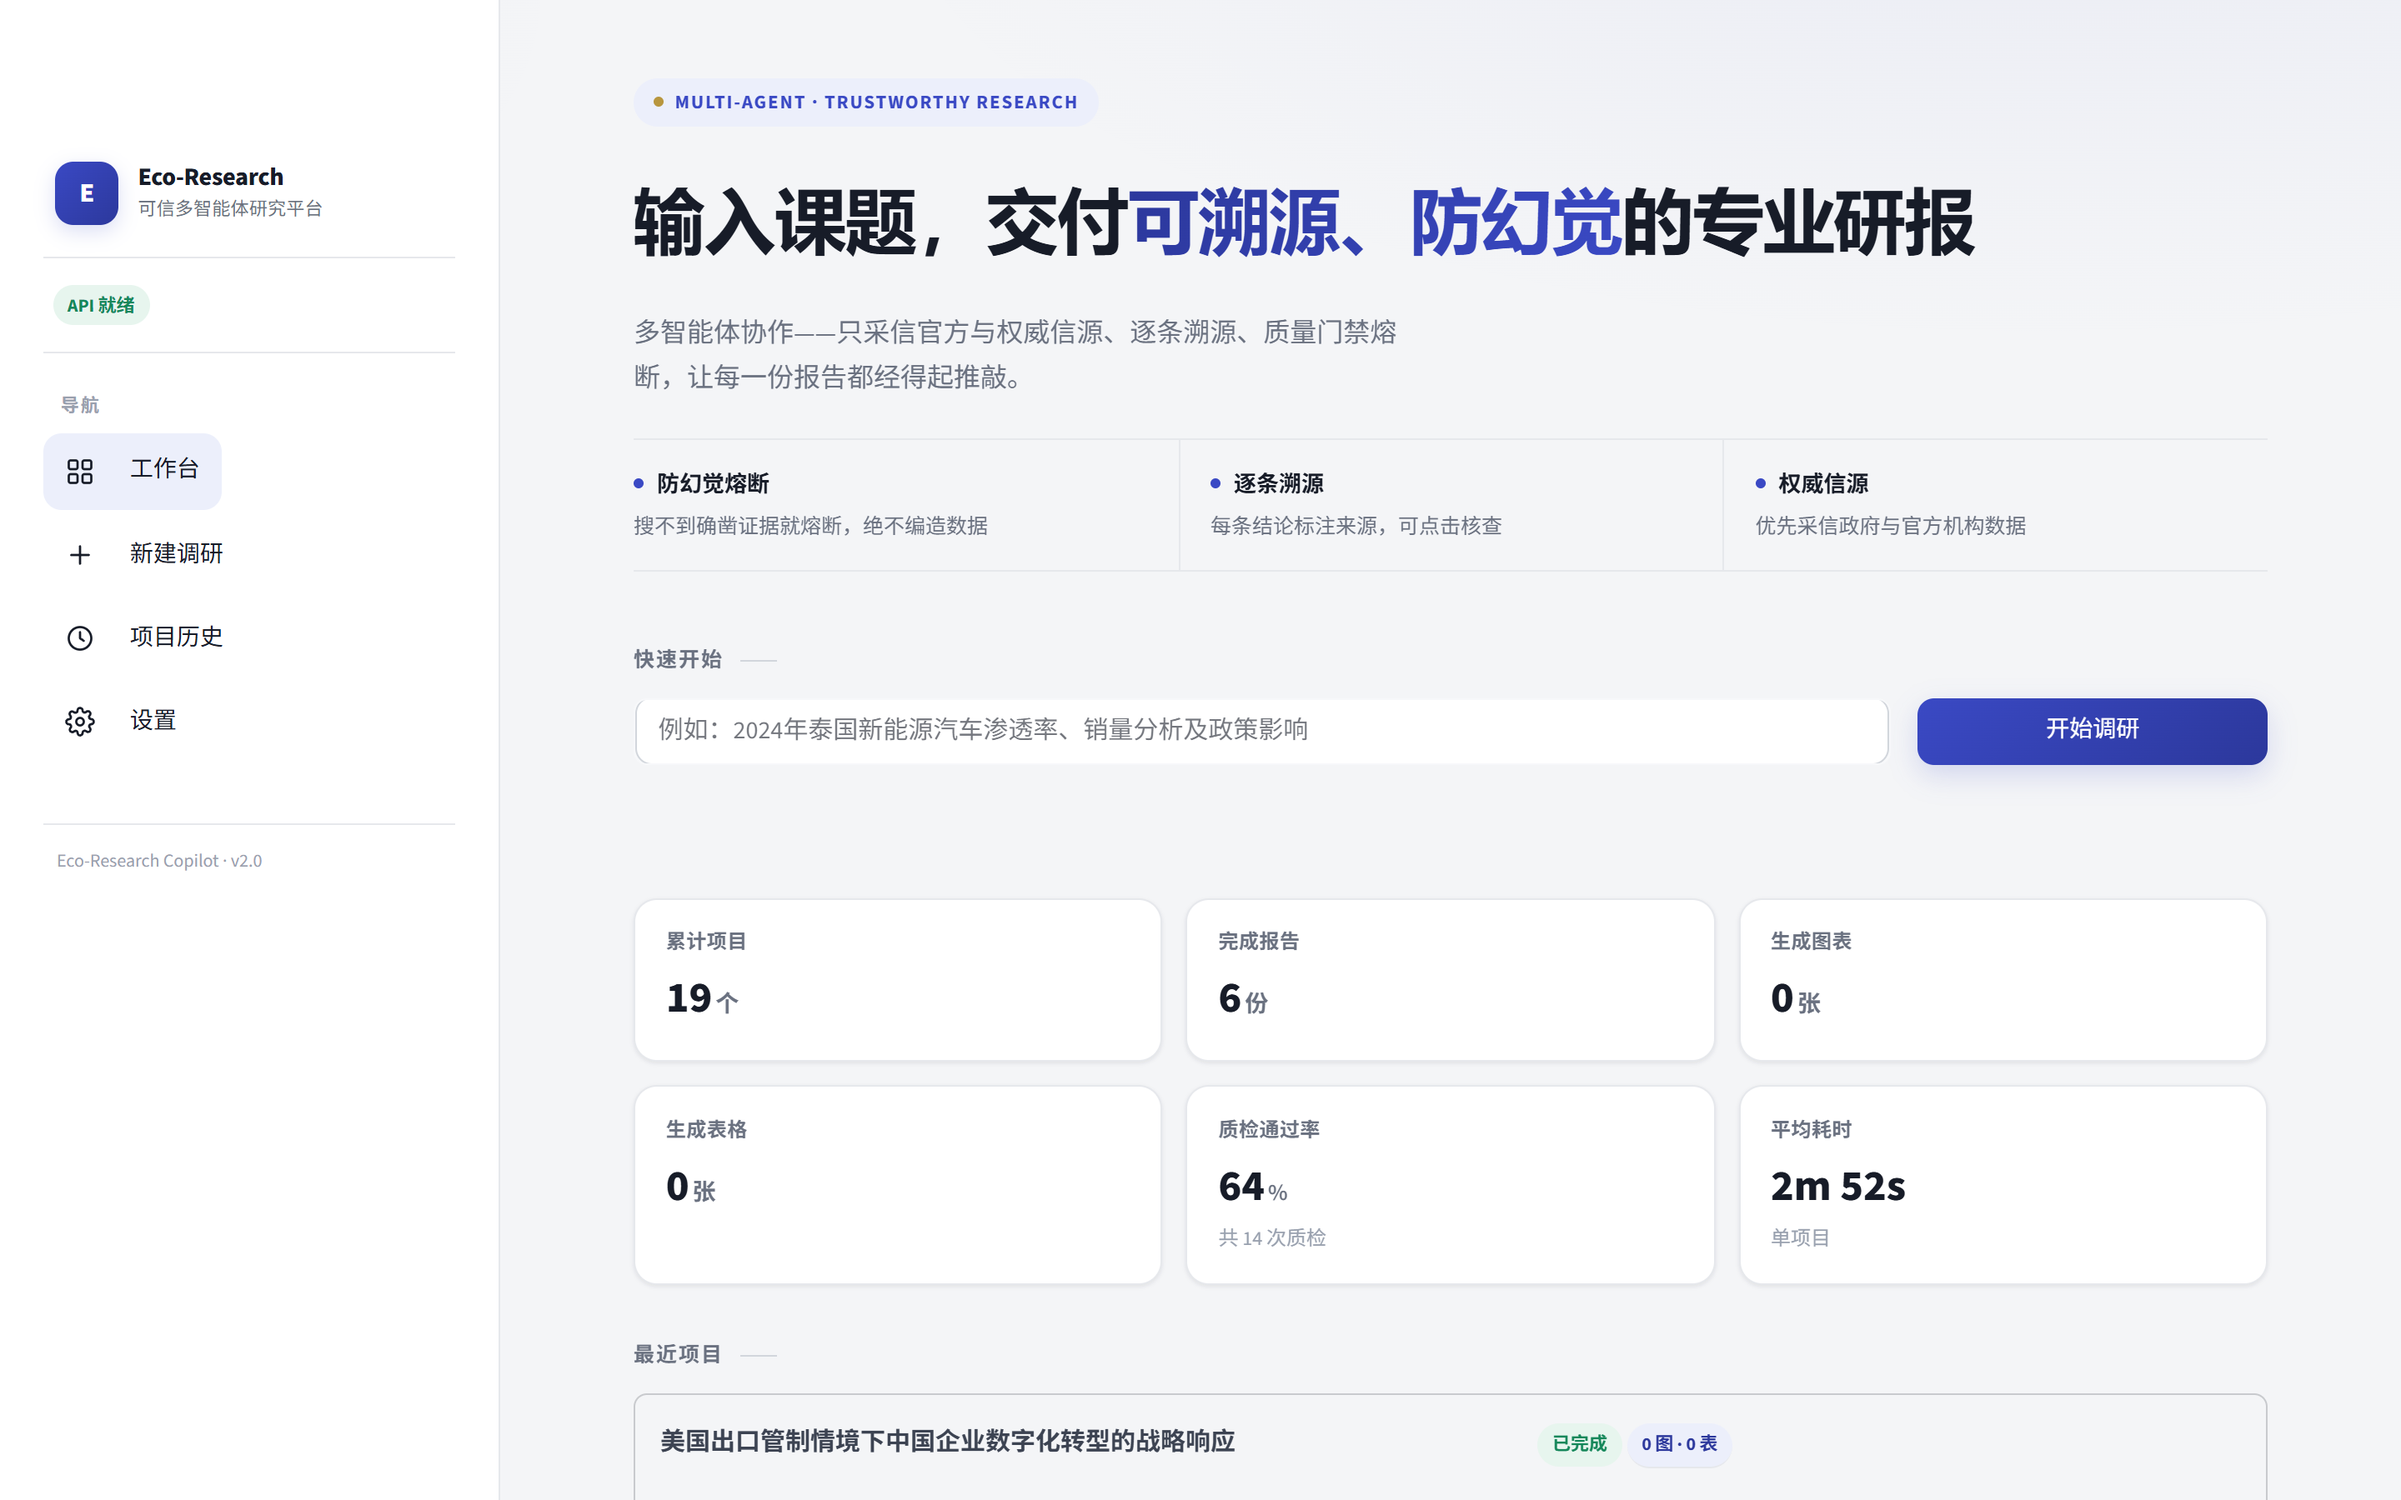
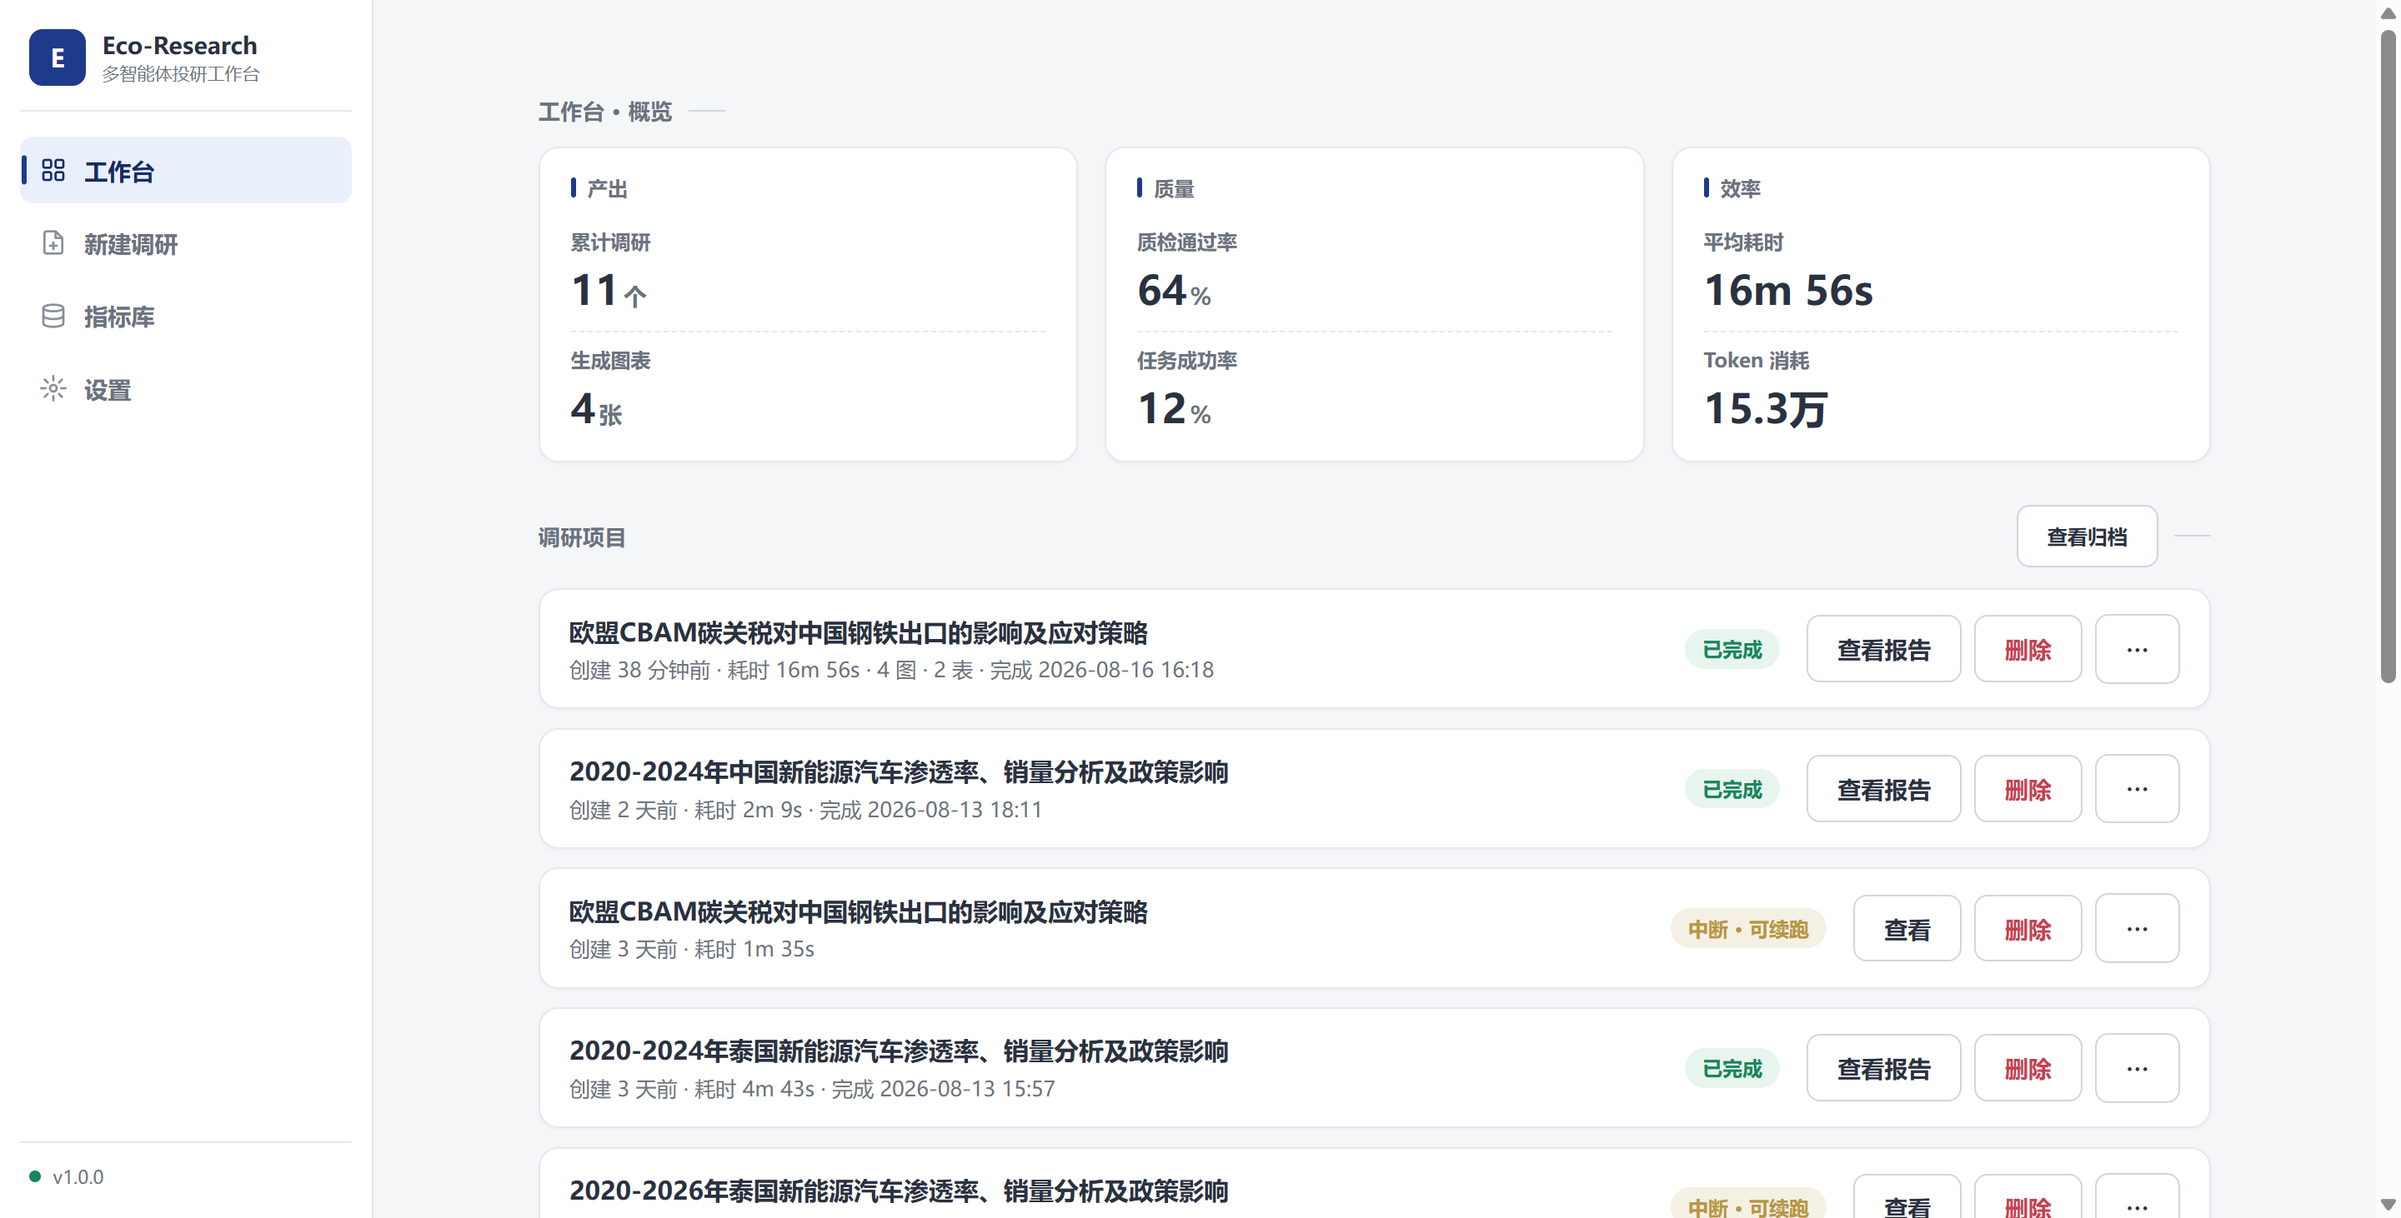
docs: refresh README screenshots with current UI

diff --git a/README.md b/README.md
@@ -104,7 +104,7 @@ flowchart LR
 
 | 工作台 | 新建调研 | 报告预览 |
 |:---:|:---:|:---:|
-| ![工作台](docs/screenshots/dashboard.png) | ![新建调研](docs/screenshots/new-research.png) | ![报告预览](docs/screenshots/report.png) |
+| ![工作台](docs/screenshots/dashboard.png) | ![新建调研](docs/screenshots/new-research.jpg) | ![报告预览](docs/screenshots/report.jpg) |
 
 ## 快速开始
 
